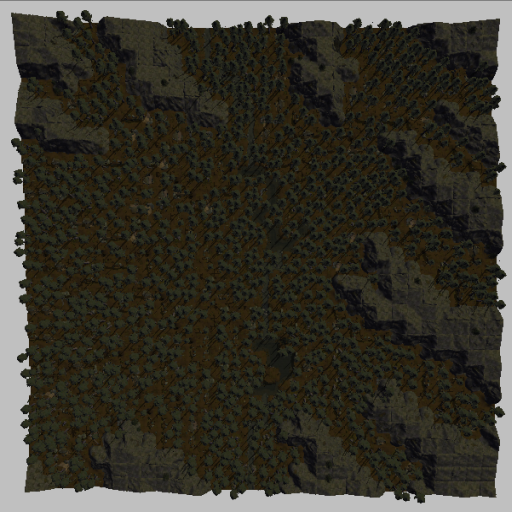
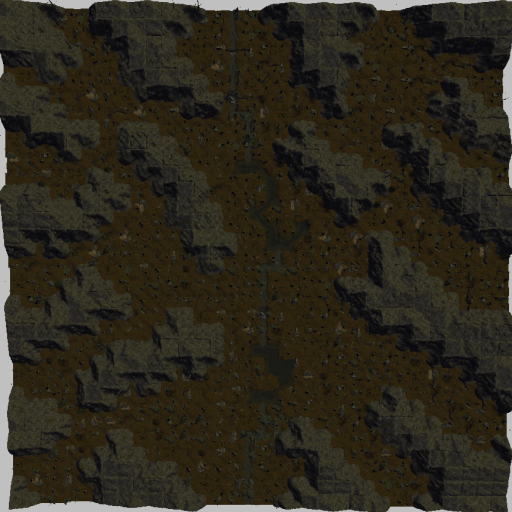
update to Uluran

diff --git a/common.js b/common.js
@@ -51,7 +51,7 @@ var map = {
         '0map',          '0map',          '0map',           '0map',          '0map',           't_carlsmere_s',  't_carlsmere_se', 't_firebayw2',   '0map',           '0map',           '0map',          '0map',          '0map',          '0map',          '0map',          '0map',           '0map',          '0map',            '0map',          't_portkirn',     't_trwaykir2',   't_kirgard',       't_trwaykir3',   't_trwaykir4',     't_archdrugro',    't_oldoakdel_s',   't_talltrees',     't_mythrhynn_sw',  't_mythrhynn_s',   't_mythrhynn_se',  't_kingtree_w',    't_kingtree',      't_kingtree_e',    't_linus_w',       't_linuss',        't_linus_e',       't_garlok_s',      't_suldaness_ww',  't_suldaness_w',  't_suldaness',    't_calathal_2',        't_8tree',         't_8tree_e',       't_redknight_sw',  't_silvyr_w',     't_silvyr',         't_silvyr_e',    't_toralth_wus', 't_toralth_s',   't_toralth_se',  't_spellwud_n', 't_shelshyr_nw','t_shelshyr_n',  't_caerdusk_n',   't_fldwlk_n3',   't_yilloan_n',    't_tzrd_elben2', 't_elbencort_w',  't_elbencort',   't_elbencort_e', 't_elbenvale_w',  't_elbenvale_e',  '0map',            '0map',           '0map',		    '0map',          '0map',         '0map',         '0map',        '0map',
         '0map',          '0map',          '0map',           '0map',          '0map',           '0map',           '0map',           '0map',          '0map',           '0map',           '0map',          '0map',          't_stspmntn1',   't_stspmntn2',   't_adlir',       't_stspmntn3',    't_stspmntn4',   't_stspmntn5',     't_stspmntn6',   't_portkir',      't_trwaykir1',   't_tresqylr1',     't_tresqylr2',   't_tresqyl',       't_tresqyl_e',     't_cayrthal_n',    't_talltrees_s',   't_kalmin_n',      't_hunttree_w',    't_hunttree',      't_hunttree_e',    't_morndiv_up',    't_kingtree_se',   't_linus_sw',      't_linus_s',       't_linus_se',      't_panse_nw',      't_panse_n',       't_suldaness_sw', 't_suldaness_s',  't_calathal_3',        't_8tree_s',       't_8tree_se',      't_zoastriast',    't_silvyr_sw',    't_silvyr_s',       't_9star_n',     't_innocence',   't_hltrail2',    't_hltrail3',	  't_spellwud',   't_shelshyr_w', 't_shelshyr',    't_caerdusk',     't_fldwlk_n2',   't_yilloan_s',    't_nomer_nw',    't_nomer_n',      't_elbencort_s', 't_elbencort_se','t_elbenvale_sw', 't_elbenvale_se', '0map',            '0map',           '0map',		    '0map',          '0map',         '0map',         '0map',        '0map',
         '0map',          '0map',          '0map',           '0map',          '0map',           '0map',           '0map',           '0map',          '0map',           '0map',           '0map',          '0map',          't_stspmnts1',   't_stspmnts2',   't_stspmnts3',   't_stspmnts4',    't_ramedar',     't_bormuln5',      't_battlesend_n','t_battlesend_ne','t_trwayzaz3',   't_grimjaws_w',    't_grimjaws',    't_grimjaws_e',    't_cayrthal_w',    't_cayrthal',      't_cayrthal_e',    't_kalmin',        't_kalmin_e',      't_hawkrook4',     't_hawkrook5',     '0mnt',            't_argent_nw',     't_argent_n',      't_dunod_nw',      't_dunod_n',       't_stpiretr14',    't_panse',         't_stpiretr13',   't_stpiretr12',   't_calathal_4',        't_calathal_5',    't_calathal_6',    't_moongld',       't_moongld_e',    't_9star_w',        't_9star',       't_hartwud',     't_nanarch',     't_hltrail4',	  't_spellwud_s', 't_shelshyr_sw','t_shelshyr_s',  't_caerdusk_s',   't_fldwlk_n1',   't_morning_nw',   't_morning_n',   't_nomer',        't_nomer_e',     't_nomer_h_w',	 't_nomer_h',      't_nomer_h_e',    't_rrinno_n',      '0map',           '0map',		    '0map',          '0map',         '0map',         '0map',        '0map',
-        '0map',          '0map',          '0map',           '0map',          '0map',           '0map',           '0map',           '0map',          '0map',           '0map',           '0map',          '0map',          '0map',          '0map',          '0map',          '0map',           't_bormuln4',    't_bormuln3',      't_battlesend',  't_battlesend_e', 't_trwayzaz2',   't_grimjaws_sw',   't_grimjaws_s',  't_grimjaws_se',   't_memory_w',      't_memory',        't_samyte_to',     't_strohm_to',     't_uluran_n',      't_tresper',       '0mnt',            '0mnt',            't_argent_w',      't_argentwing',    't_dunod_w',       't_dunod',         't_stpiretr15',    't_panse_s',       't_targyll',      't_stpiretr11',   't_tweyar_n',          't_tweyar_ne',     't_moongld_sw',    't_moongld_s',     't_moongld_se',   't_sulduskoonar',   't_sulduskoo_e', 't_hartshall',   't_hltrail6',    't_hltrail5',	  't_mourning_n', 't_mourning_ne','t_shiningwud_n','t_shiningwud_ne','t_st_alaric_n', 't_morning_w',    't_morning',     't_morning_e',    't_nomer_se',    't_swimstar_h_nw','t_swimstar_h_n','t_swimstar_h_ne','t_rrinno',        'e_turbold_nw',   'e_turbold_n',		'e_turbold_ne',  'e_charve_nw',  'e_charve_n',   'e_charve_ne', '0map',
+        '0map',          '0map',          '0map',           '0map',          '0map',           '0map',           '0map',           '0map',          '0map',           '0map',           '0map',          '0map',          '0map',          '0map',          '0map',          '0map',           't_bormuln4',    't_bormuln3',      't_battlesend',  't_battlesend_e', 't_trwayzaz2',   't_grimjaws_sw',   't_grimjaws_s',  't_grimjaws_se',   't_memory_w',      't_memory',        't_samyte_to',     't_strohm_to',     't_uluran_n',      't_tresper',       't_tresper_e',     '0mnt',            't_argent_w',      't_argentwing',    't_dunod_w',       't_dunod',         't_stpiretr15',    't_panse_s',       't_targyll',      't_stpiretr11',   't_tweyar_n',          't_tweyar_ne',     't_moongld_sw',    't_moongld_s',     't_moongld_se',   't_sulduskoonar',   't_sulduskoo_e', 't_hartshall',   't_hltrail6',    't_hltrail5',	  't_mourning_n', 't_mourning_ne','t_shiningwud_n','t_shiningwud_ne','t_st_alaric_n', 't_morning_w',    't_morning',     't_morning_e',    't_nomer_se',    't_swimstar_h_nw','t_swimstar_h_n','t_swimstar_h_ne','t_rrinno',        'e_turbold_nw',   'e_turbold_n',		'e_turbold_ne',  'e_charve_nw',  'e_charve_n',   'e_charve_ne', '0map',
         '0map',          '0map',          '0map',           '0map',          '0map',           '0map',           '0map',           '0map',          '0map',           '0map',           '0map',          '0map',          '0map',          '0map',          '0map',          '0map',           '0map',          '0map',            't_bormuln2',    't_bormuln1',     't_trwayzaz1',   't_tinker_w',      't_tinker',      't_9ladies_nw',    't_9ladies_n',     't_memory_s',      't_samyte_tos',    't_uluran_w',      't_uluran',        't_tresper_s',     't_stpiretr1',     't_banshi_n',      't_banshi_ne',     't_argent_s',      't_dunod_sw',      't_dunod_s',       't_dunod_se',      't_stpiretr8',     't_stpiretr9',    't_stpiretr10',   't_tweyar',            't_varyth_torf_w', 't_varyth_tor',    't_varyth_torf_e', 't_sulduskoo_sw', 't_sulduskoo_s',    't_sulduskoo_se','t_hartshall_s', 't_hltrail7',    't_mourning_w',  't_mourning',   't_mourning_e', 't_shiningwud',  't_iltkazar_n',   't_st_alaric',   't_st_alaric_e',  't_morning_s',   't_morning_se',   't_rivertrk1',   't_swimstar_h_w', 't_swimstar_h',  't_swimstar_h_e', 't_kartak_n',      'e_turbold_w',    'e_turbold',		'e_turbold_e',   'e_charve_w',   'e_charve',     'e_charve_e',  '0map',
         '0map',          '0map',          '0map',           '0map',          '0map',           '0map',           '0map',           '0map',          '0map',           '0map',           '0map',          '0map',          '0map',          '0map',          '0map',          '0map',           '0map',          '0map',            '0map',          't_zazesspur_nw', 't_zazesspur_ne','t_tinker_sw',     't_tinker_s',    't_9ladies_w',     't_9ladies',       't_9ladies_e',     't_9ladies_ee',    't_uluran_sw',     't_hawkrook2',     't_uluran_se',     't_stpiretr2',     't_banshi',        't_stpiretr3',     't_stpiretr4',     't_stpiretr5',     't_stpiretr6',     't_stpiretr7',     't_lhestyn_quay',  't_masamont_road','t_masamount',    't_masamount_wudn',    't_varyth_torf_sw','t_varyth_torf_s', 't_varyth_torf_se','t_varyth_wud_w', 't_varyth_wud',     't_varyth_wud_e','t_hartshall_ss','t_hltrail8',    't_mourning_sw', 't_mourning_s', 't_mourning_se','t_shiningwud_s','t_iltkazar',     't_st_alaric_s', 't_st_alaric_se', 't_swimstar3',   't_swimstar4',    't_rivertrk2',   't_swimstar_h_sw','t_swimstar_h_s','t_swimstar_h_se','t_kartak',        'e_turbold_sw',   'e_turbold_s',     'e_turbold_se',  'e_charve_sw',  'e_charve_s',   'e_charve_se', '0map',
         '0map',          '0map',          '0map',           '0map',          '0map',           '0map',           '0map',           '0map',          '0map',           '0map',           '0map',          '0map',          '0map',          '0map',          '0map',          '0map',           '0map',          '0map',            '0map',          't_zazesspur_sw', 't_zazesspur_se','t_venezir_ne'  ,  't_marakir',     't_9ladies_sw',    't_9ladies_s',     't_tethyrcast_nw', 't_tethyrcast_n',  't_tethyrcast_ne', 't_hawkrook1',     't_hawkrook1e',    't_banshi_sw',     't_hostim_quay',   't_ithmn_sul_e',   't_ithmn_sul_e1',  't_ithmn_sul_e2',  't_grannox',       't_grannox_farms', 't_lhestynheart',  't_freelm_farms', 't_freelmanse',   't_masamount_wuds',    't_varyth_plain_w','t_varyth_plain_c','t_varyth_plain_e','t_iltarghal_nww','t_iltarghal_nw',   't_iltarghal_n', 't_iltarghal_ne','t_hltrail9',    't_survale_ne',  't_gorge1n',    't_gorge2n',    't_gorge3n',     't_gorge4n',      't_fldwlk_s1',   't_swimstar1',    't_swimstar2',   't_lyllburg_nw',  't_lyllburg_n',  't_lyllburg_ne',  'e_ravimor_nw',  'e_ravimor_n',    'e_ravimor_ne',    'e_tibold_nw',    'e_tibold_n',      'e_tibold_ne',   '0map',         '0map',         '0map',        '0map',
